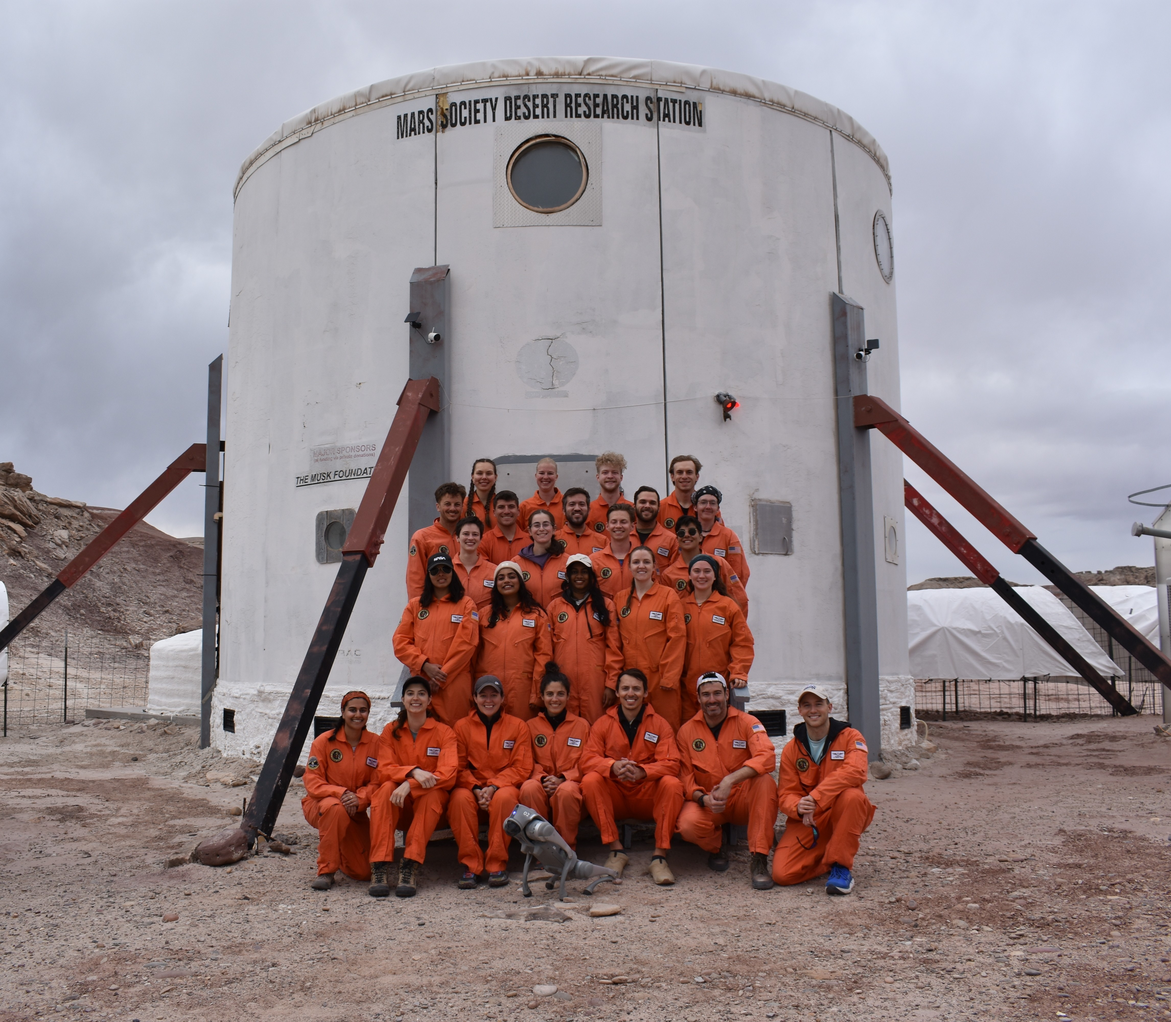
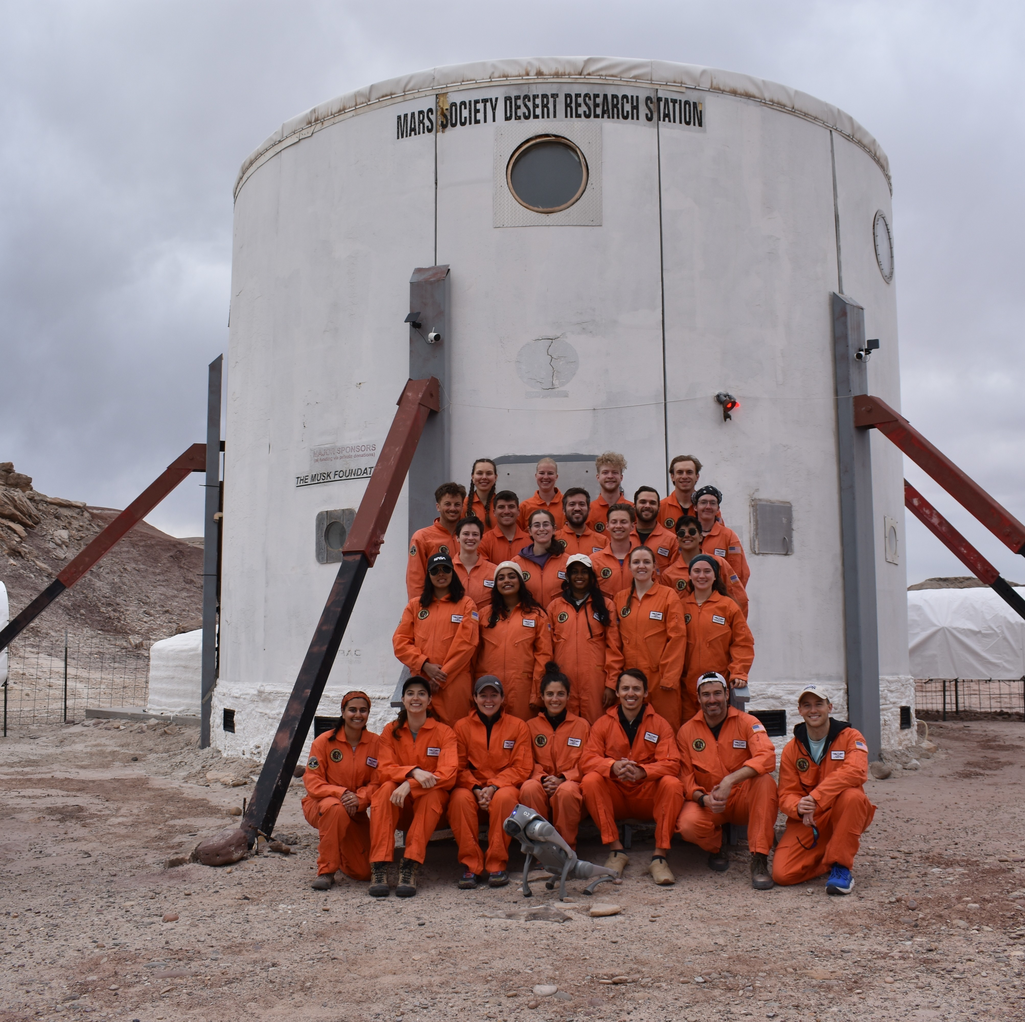
edited EVA analog exp

diff --git a/index.html b/index.html
@@ -1324,7 +1324,7 @@
               <div class="carousel-text" data-aos="fade-up">
                 <h2>Analog Mission Overview</h2>
                 <p>
-                  This project, led by CU Bioastronautics and Emergency Medicine faculty, focused on applying space medicine concepts in the field by responding to simulated emergencies during extravehicular activities (EVA).
+                  This project, led by CU Bioastronautics and Emergency Medicine faculty, focused on applying space medicine concepts in the field by responding to simulated medical emergencies during extravehicular activities (EVAs).
                 </p>
                 <table class="carousel-data">
                   <tbody>
@@ -1338,18 +1338,14 @@
                     </tr>
                     <tr>
                       <td>DURATION</td>
-                      <td>1 week</td>
-                    </tr>
-                    <tr>
-                      <td>EVA FREQ.</td>
-                      <td>Daily</td>
+                      <td>1 Week (Daily EVAs)</td>
                     </tr>
                     <tr>
                       <td>EVA OBJECTIVES</td>
                       <td>Satellite Recovery, Comm Relay, Site Scouting, Search & Rescue, Geology</td>
                     </tr>
                     <tr>
-                      <td>MED. SCENARIOS</td>
+                      <td>MEDICAL SCENARIOS</td>
                       <td>Musculoskeletal, DCS, Radiation, TBI, Mass Casualty</td>
                     </tr>
                   </tbody>
